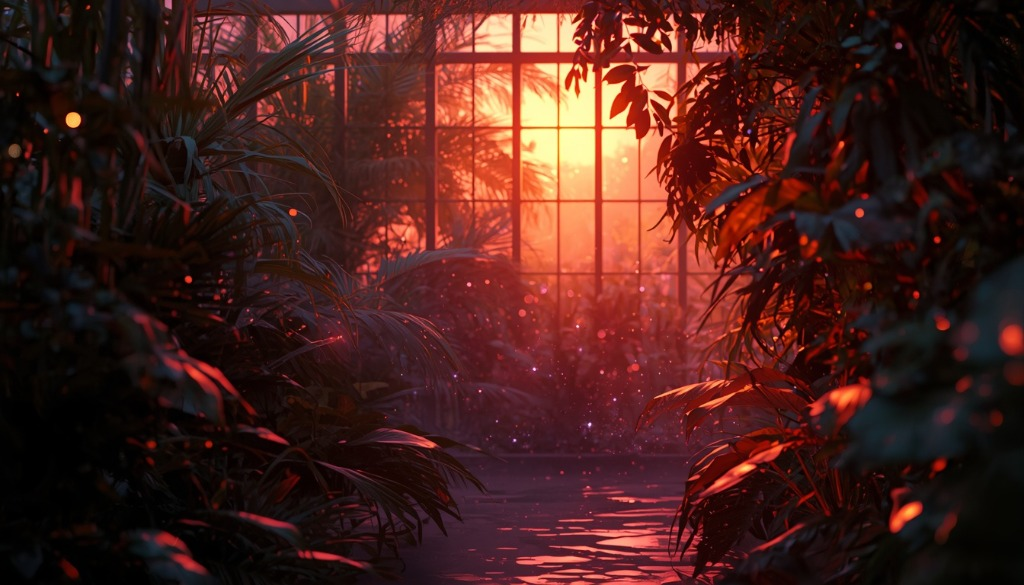
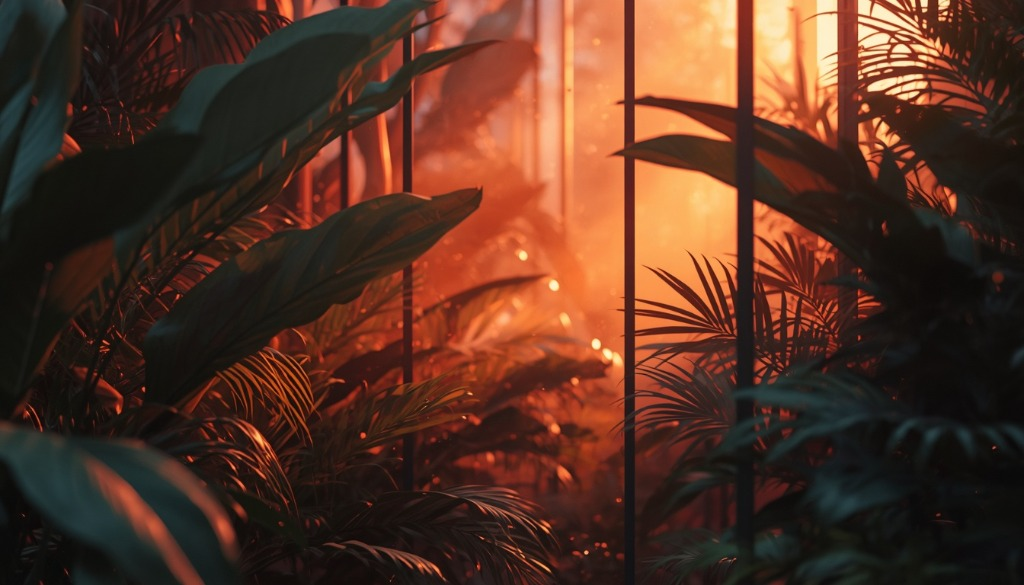
Finalize production QA fixes

diff --git a/src/components/CinematicBackground.tsx b/src/components/CinematicBackground.tsx
@@ -2,16 +2,16 @@ import Image from "next/image";
 
 export default function CinematicBackground() {
   return (
-    <div className="fixed inset-0 pointer-events-none z-0 overflow-hidden">
+    <div className="fixed inset-0 pointer-events-none z-0 overflow-hidden bg-botanica-950">
       {/* Synth Botanical Greenhouse Photography Background */}
-      <div className="absolute inset-0">
+      <div className="absolute inset-0 w-full h-full">
         <Image
           src="/hero-bg.jpg"
           alt="Synth Botanical Greenhouse Golden Hour Installation"
           fill
           priority
-          sizes="100vw"
-          className="object-cover object-center transform scale-105 transition-transform duration-1000"
+          unoptimized
+          className="object-cover object-[40%_50%] sm:object-center select-none"
         />
       </div>
 
@@ -24,3 +24,4 @@ export default function CinematicBackground() {
     </div>
   );
 }
+

diff --git a/src/components/ResumeSection.tsx b/src/components/ResumeSection.tsx
@@ -37,13 +37,14 @@ export default function ResumeSection({ onOpenResume }: ResumeSectionProps) {
               <span>VIEW RESUME</span>
             </button>
 
-            <button
-              onClick={onOpenResume}
+            <a
+              href="/resume.pdf"
+              download="Sai_Krishna_Paila_Resume.pdf"
               className="inline-flex items-center gap-2 px-6 py-3.5 glass-pill-apple text-paper-50 font-semibold rounded-full text-xs uppercase tracking-wider hover:bg-white/15 transition-all"
             >
               <Download className="w-4 h-4 text-golden-400" />
               <span>DOWNLOAD PDF</span>
-            </button>
+            </a>
           </div>
 
         </div>

diff --git a/src/components/Footer.tsx b/src/components/Footer.tsx
@@ -18,7 +18,7 @@ export default function Footer() {
         {/* Center Links */}
         <div className="flex items-center gap-6 text-xs font-mono text-paper-300">
           <a
-            href="https://github.com/saikrishnapaila"
+            href="https://github.com/saikrishnapaila28"
             target="_blank"
             rel="noopener noreferrer"
             className="hover:text-golden-400 transition-colors"

diff --git a/src/components/Navbar.tsx b/src/components/Navbar.tsx
@@ -91,6 +91,7 @@ export default function Navbar({ onOpenResume }: NavbarProps) {
         <button
           onClick={scrollToTop}
           title="Back to top"
+          aria-label="Back to top"
           className="flex items-center justify-center p-1 focus:outline-none transition-opacity hover:opacity-90 shrink-0"
         >
           <div className="relative h-9 w-16 sm:w-20">
